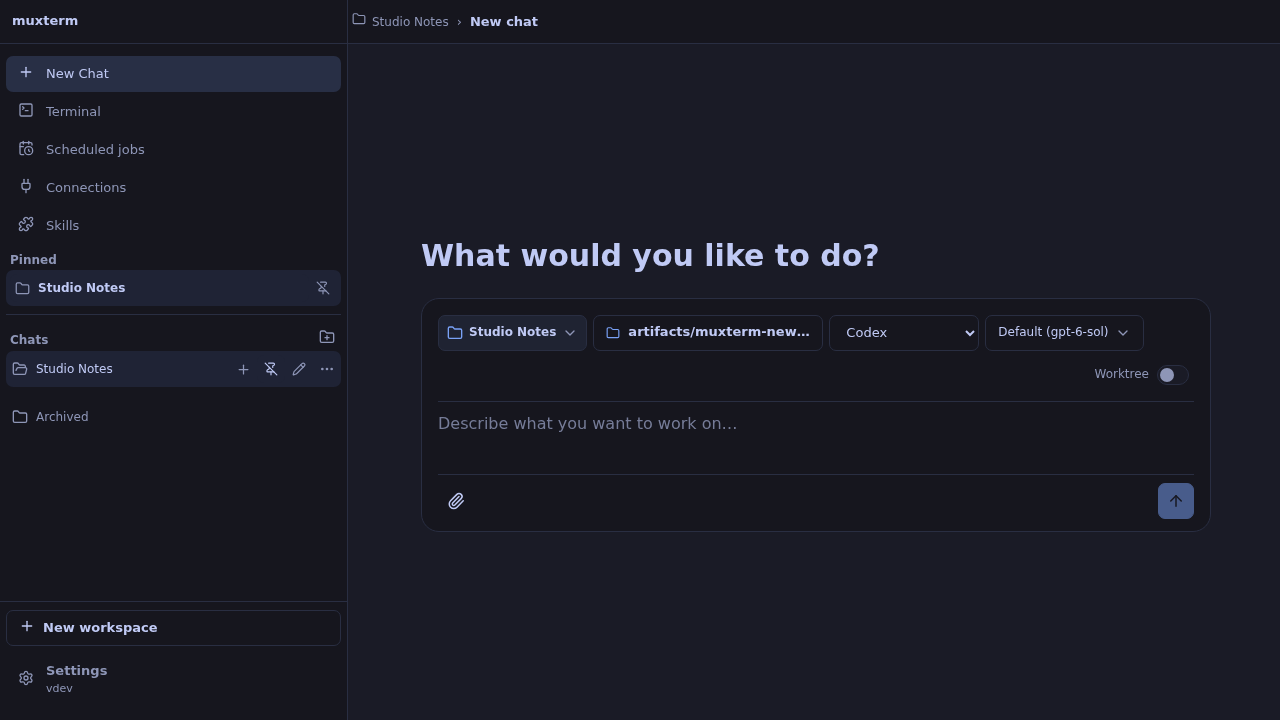
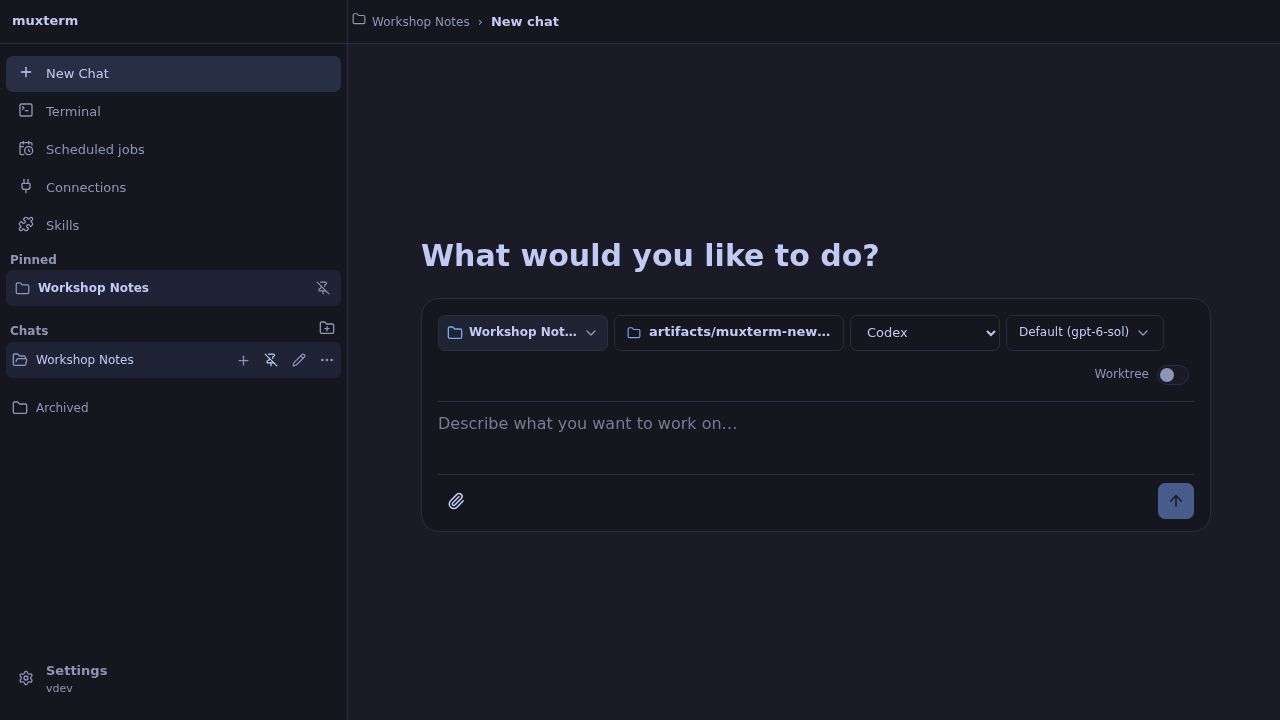
Remove workspace button and sidebar dividers

diff --git a/web/src/components/mux-sidebar.stories.ts b/web/src/components/mux-sidebar.stories.ts
@@ -1,13 +1,11 @@
 import type { Meta, StoryObj } from '@storybook/web-components-vite';
 import { html } from 'lit';
 import { fixtureJSON } from '../stories/api-fixture.js';
-import type { MuxWorkspaceCreateDialog } from './workspace-create-dialog.js';
 import './mux-sidebar.js';
-import './workspace-create-dialog.js';
 
 type Destination = 'newChatActive' | 'terminalActive' | 'jobsActive' | 'connectionsActive' | 'skillsActive';
 
-function view(destination: Destination = 'newChatActive', drawer = false, createFlow = false) {
+function view(destination: Destination = 'newChatActive', drawer = false) {
   return html`<div style="display:flex;align-items:stretch;height:844px;width:${drawer ? '335px' : '348px'};max-width:100vw;background:var(--ui-surface-nav);border-right:1px solid var(--ui-border)">
     <mux-sidebar
       style="width:100%"
@@ -17,12 +15,7 @@ function view(destination: Destination = 'newChatActive', drawer = false, create
       .connectionsActive=${destination === 'connectionsActive'}
       .skillsActive=${destination === 'skillsActive'}
       .drawer=${drawer}
-      @workspace-create=${(event:Event) => {
-        const dialog = (event.currentTarget as HTMLElement).parentElement?.querySelector<MuxWorkspaceCreateDialog>('mux-workspace-create-dialog');
-        if (dialog) dialog.open = true;
-      }}
     ></mux-sidebar>
-    ${createFlow ? html`<mux-workspace-create-dialog @workspace-create-cancel=${(event:Event) => { (event.currentTarget as MuxWorkspaceCreateDialog).open = false; }}></mux-workspace-create-dialog>` : ''}
   </div>`;
 }
 
@@ -44,16 +37,5 @@ export const ConnectionsSelected: Story = { render:() => view('connectionsActive
 export const SkillsSelected: Story = { render:() => view('skillsActive') };
 export const PhoneDrawer: Story = {
   globals:{ viewport:{value:'phone390',isRotated:false} }, render:() => view('newChatActive',true),
-};
-export const WorkspaceCreateAction: Story = { render:() => view('terminalActive'),
-  play:async ({canvasElement}) => { canvasElement.querySelector('mux-sidebar')?.shadowRoot?.querySelector<HTMLElement>('.workspace-create-action')?.focus(); },
-};
-const openWorkspaceDialog = async ({canvasElement}:{canvasElement:HTMLElement}) => {
-  canvasElement.querySelector('mux-sidebar')?.shadowRoot?.querySelector<HTMLElement>('.workspace-create-action')?.click();
-};
-export const WorkspaceCreateDialog: Story = { render:() => view('terminalActive',false,true), play:openWorkspaceDialog };
-export const PhoneWorkspaceCreateDialog: Story = {
-  globals:{ viewport:{value:'phone390',isRotated:false} },
-  render:() => view('terminalActive',true,true), play:openWorkspaceDialog,
 };
 export const LightPalette: Story = { globals:{palette:'github-light'} };

diff --git a/web/src/components/mux-sidebar.ts b/web/src/components/mux-sidebar.ts
@@ -6,7 +6,6 @@ import { icon } from '../lib/icons.js';
 import { instanceLabel } from '../lib/instance-identity.js';
 import { SIDEBAR_MIN_WIDTH, SIDEBAR_MAX_WIDTH } from '../lib/sidebar-width.js';
 import { fetchUpdateStatus, type UpdateStatus } from '../lib/update.js';
-import '../ui/button.js';
 import '../ui/nav-item.js';
 import './mux-chat-list.js';
 
@@ -60,10 +59,7 @@ export class MuxSidebar extends LitElement {
     .footer {
       flex: none;
       padding: var(--ui-space-4) var(--ui-space-3) var(--ui-space-5);
-      border-top: 1px solid var(--ui-border);
     }
-    .workspace-create-action { margin-bottom: var(--ui-space-3); }
-    .workspace-create-action::part(button) { justify-content: flex-start; }
   `;
 
   @property({ type: Boolean }) newChatActive = false;
@@ -99,10 +95,7 @@ export class MuxSidebar extends LitElement {
   private renderFooter() {
     const version = this.updateStatus?.currentVersion;
     const description = version ? version.startsWith('v') ? version : `v${version}` : '';
-    return html`<div class="footer"><mux-ui-button class="workspace-create-action" variant="secondary" full-width
-      @click=${() => this.dispatchEvent(new CustomEvent('workspace-create', { detail: { host: '' }, bubbles: true, composed: true }))}>
-      <span slot="leading">${icon(Plus, { size: 16 })}</span>New workspace
-    </mux-ui-button><mux-ui-nav-item label="Settings" description=${description}
+    return html`<div class="footer"><mux-ui-nav-item label="Settings" description=${description}
       @click=${() => this.dispatchEvent(new CustomEvent('launcher-action', { detail: { action: 'settings' }, bubbles: true, composed: true }))}>
       <span slot="icon">${icon(Settings, { size: 16 })}</span>
     </mux-ui-nav-item></div>`;

diff --git a/web/src/components/mux-chat-list.ts b/web/src/components/mux-chat-list.ts
@@ -381,7 +381,7 @@ export class MuxChatList extends LitElement {
     .heading { padding:var(--ui-space-4) var(--ui-space-2) var(--ui-space-1); font-size:inherit; font-weight:600; letter-spacing:0; text-transform:none; }
     .heading-row { display:flex; align-items:center; justify-content:space-between; }
     .heading-actions { display:flex; align-items:center; }
-    .pinned { margin-bottom:var(--ui-space-4); padding-bottom:var(--ui-space-4); border-bottom:1px solid var(--ui-border); }
+    .pinned { margin-bottom:var(--ui-space-4); }
     .pin-row { box-sizing:border-box; width:100%; display:flex; align-items:center; min-height:var(--ui-control-md); padding:var(--ui-space-1) var(--ui-space-2); border-radius:var(--ui-radius-md); color:var(--ui-text); }
     .pin-row:hover,.pin-row:focus-within { background:var(--ui-surface-hover); }
     .pin-row[selected] { background:var(--ui-nav-selected); }

diff --git a/docs/design-system/inventory.md b/docs/design-system/inventory.md
@@ -18,7 +18,7 @@ catalog, while the live app is the behavior source of truth.
 | Project and document ancestry | Utility file preview and Pages editor | `mux-ui-breadcrumb` | Shared path semantics, ancestor buttons, current-location text and app/document token palettes. Files reveals the explorer if hidden and focuses the chosen folder; Pages selects the chosen parent. Phone ancestor targets reach 44 px and the file path uses its own header row. Storybook records nested, hidden-browser, empty, phone, document and light states. |
 | Labels, search fields and errors | Chat list, Skills, Settings, utility, Connections, Jobs | `mux-ui-text-field`, `mux-ui-text-area`, `mux-ui-select` and native editor/upload controls | Migrated; Jobs search, filter and editor, Connections setup, the chat project editor, Skills, Settings and Utility search use shared fields. Chat/New Chat auto-sizing composers, file inputs and the Utility page title retain native editing or upload behavior as recorded below. |
 | Modal width, backdrop and dismissal | Settings, workspace creation, close confirmation, Job editor, project editor, utility Quick Open | `mux-ui-dialog`, `mux-ui-confirmation` | Migrated; Settings, workspace creation, destructive close, Jobs editor, project editor and Quick Open use the dialog shell. Connections uses the shared Confirmation composite for account removal and disconnect actions. It gives Cancel initial focus, blocks dismissal while busy, and presents a desktop modal or phone sheet. Sessiond still owns pane and workspace close authority. |
-| App shell and workspace creation | `mux-app`, `mux-workspace-create-dialog` | semantic `--ui-*` colors, spacing and shadows; shared Dialog, Text Field and Button | App shell has zero legacy palette tokens, literal palette colors, checked literal scale declarations, and native controls. Workspace creation has a centered desktop modal and phone sheet, with busy state guarding dismissal. The narrow shell sets Chat compact so its own title appears once; the chat panel keeps a secondary goal/utility action row. The shell still owns workspace and sessiond actions. The Sidebar footer now exposes New workspace through a shared Button at desktop and in the phone drawer, with no local/remote distinction. Chromium created fresh sessiond workspaces from both visible paths and confirmed the centered modal and phone sheet. |
+| App shell and workspace creation | `mux-app`, `mux-workspace-create-dialog` | semantic `--ui-*` colors, spacing and shadows; shared Dialog, Text Field and Button | App shell has zero legacy palette tokens, literal palette colors, checked literal scale declarations, and native controls. Workspace creation has a centered desktop modal and phone sheet, with busy state guarding dismissal. The narrow shell sets Chat compact so its own title appears once; the chat panel keeps a secondary goal/utility action row. The shell still owns workspace and sessiond actions. The Sidebar footer only contains Settings; terminal workspace creation remains available from its other flows. |
 | Empty, loading, error and recovery messages | Skills, Jobs, chat, Browser Assistant, Utility file viewer and rails, image/PDF preview | `mux-ui-feedback` | Migrated; Utility file previews and Files, Changes and Pages rails use shared loading, empty, warning and error states with Retry where safe. Chat List project, editor and pinned-action failures now use compact shared Feedback panels rather than local alert styling; desktop and phone failure stories expose the alert role. Storybook covers failed and recovered file, raw-preview and rail requests; isolated Chromium verified raw-preview recovery at desktop and phone widths. |
 | Shell session-start and close-error notices | `mux-app` | `mux-ui-feedback` inline panel with shared Button action | Both notice types use the same alert semantics, danger treatment, action placement and responsive container layout. The shell owns the notice stack and dismissal state. The stack sits below title chrome. Storybook catalogs short, long and phone states; a dev-local browser injected error states to check app placement and Dismiss behavior without a failed server close. |
 | Full-panel empty and selection states | Utility Files, Changes and Pages | `mux-ui-empty-state` | Shared icon, heading, description, action placement, app and document palettes replace three feature-owned hero layouts. Storybook covers action, no-action, document, phone and light states. Utility uses shared Feedback for diff loading, oversized, binary and failed-load states; failed diff fetches offer Retry instead of appearing binary. |
@@ -42,7 +42,7 @@ catalog, while the live app is the behavior source of truth.
 | Compact selectable rail rows | Utility file tree, touched files, changes and Pages | `mux-ui-rail-row` | Migrated. One Lit row owns indentation, selected/hover/focus surfaces, icon, optional chevron/detail and a native button; tree rows expose level, expanded and selected semantics. Utility retains file navigation, diff and page actions. Storybook covers file, change, page, phone and light states. Storybook verified ArrowDown and ArrowLeft focus; a fresh live chat verified folder expansion, ArrowDown focus, file preview, change selection, page and subpage rows. Coarse-pointer rows reach 44 px. |
 | Compact chat-list rows | Project groups, chat destinations and pinned entries | `mux-ui-list-row` | One Lit row owns the native button, label truncation, leading icon slot, focus, selected state and optional disclosure state. The chat list owns chat routing and sibling actions. Storybook covers selected, expanded, muted, pinned, focus, light and phone states; live dev-local Chromium verified group click/Enter, chat selection and its phone action menu. Touch-enabled Chromium measured 44 px rows with no horizontal overflow. |
 | Navigation selection and keyboard focus | Sidebar, Connections, settings sections, Jobs run history, utility tabs and lists | `mux-ui-nav-item` or the same semantic focus tokens | Migrated; Sidebar, Connections, Settings and Jobs history use it, including two-line destinations; Utility uses the shared Tab Strip and Rail Row for its different tab/tree semantics. |
-| Sidebar chrome, destinations and Settings action | `mux-sidebar` | Navigation Item and semantic surface, border, type and spacing tokens | The Sidebar uses shared Navigation Items for every destination and Settings plus a shared Button for New workspace. Unreachable workspace-preview, machine-group, tooltip and native-control code was removed. The phone drawer hides its duplicate brand row. Storybook covers selected destinations, the creation entry and dialog, phone and light palettes. The stylesheet has zero legacy palette references, literal colors, checked literal scale declarations and native controls. |
+| Sidebar chrome, destinations and Settings action | `mux-sidebar` | Navigation Item and semantic surface, border, type and spacing tokens | The Sidebar uses shared Navigation Items for every destination and Settings. The footer and Pinned section have no separating rules. Unreachable workspace-preview, machine-group, tooltip and native-control code was removed. The phone drawer hides its duplicate brand row. Storybook covers selected destinations, phone and light palettes; the separate workspace dialog keeps its own stories. The stylesheet has zero legacy palette references, literal colors, checked literal scale declarations and native controls. |
 | Phone and desktop title bar actions | `mux-title-bar` | Button and semantic chrome tokens | Navigation, file explorer and Settings use shared 44 px icon Buttons. Navigation retains `aria-expanded`; file explorer exposes `aria-pressed`. The title uses semantic text color and type scale. Storybook covers attention, open drawer, file explorer, chat titles, light palette and desktop chrome; live Chromium verifies navigation and Settings at phone width. |
 | Terminal pane tabs, split controls and responsive layout | `mux-dock`, Dockview and xterm | semantic dock tokens; integration exception for Dockview DOM | Dock-owned styles have zero legacy palette references and checked literal scale declarations. Storybook covers tabs, overflow, splits, phone transitions, title changes with activity/session labels, and light palette. Connected-host labels were removed from tabs; connection-loss warnings remain. A fresh isolated sessiond workspace verified tab creation, splitting and selection. Dockview owns panel layout and xterm owns terminal rendering. |
 | Phone pane switcher and pane actions | `mux-pane-picker` | Button, semantic sheet and row tokens, native Popover API | The picker reads its injected store in Storybook and the shared app store in production. Its styles have zero legacy colors and checked literal scale declarations. The native breadcrumb remains the declarative Popover trigger; New pane, pane selection and close use shared Buttons with 56 px rows and 44 px close targets. Storybook covers nine-pane scrolling, attention, long names and close intent. Chromium verified a fresh live workspace: pane creation and selection work, a running pane stays present through Cancel, and confirmation removes it only after sessiond responds. At 767 px the picker is visible; at 768 px Dockview tabs replace it. |

diff --git a/docs/design-system/README.md b/docs/design-system/README.md
@@ -130,7 +130,7 @@ and phone states; the app still owns when a notice appears and is dismissed.
 Dev-local browser review injected the two error states into the running app to
 inspect their placement and dismissal without sending a failed close request.
 
-The Sidebar's active chrome and spacing now use semantic tokens. Destinations and Settings use the same Navigation Item, with the version shown as Settings detail; the footer's New workspace action uses the shared Button. The phone drawer omits the brand row already present in the mobile title bar. Storybook records reachable destinations, the creation action and dialog, phone and light states. The unreachable workspace chooser, workspace preview and machine-group code was removed.
+The Sidebar's active chrome and spacing now use semantic tokens. Destinations and Settings use the same Navigation Item, with the version shown as Settings detail. The phone drawer omits the brand row already present in the mobile title bar. Storybook records reachable destinations, phone and light states; the workspace dialog has its own stories. The unreachable workspace chooser, workspace preview and machine-group code was removed.
 
 Destructive pane and workspace close uses the same adaptive Dialog and semantic tokens. Its risk summary is the dialog's accessible description, Cancel receives initial focus, and an in-flight confirmation blocks dismissal. Sessiond alone decides whether the close requires confirmation and when a pane or workspace actually disappears. Storybook records pane, workspace, multi-risk, phone, busy and light states; a real dev-local pane verified the close path.
 
